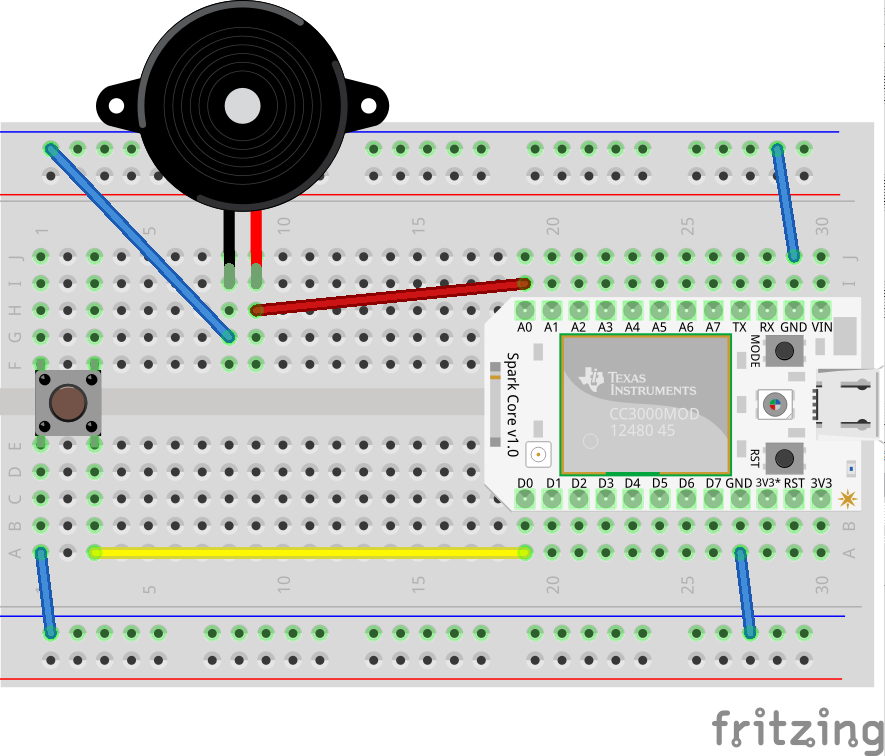
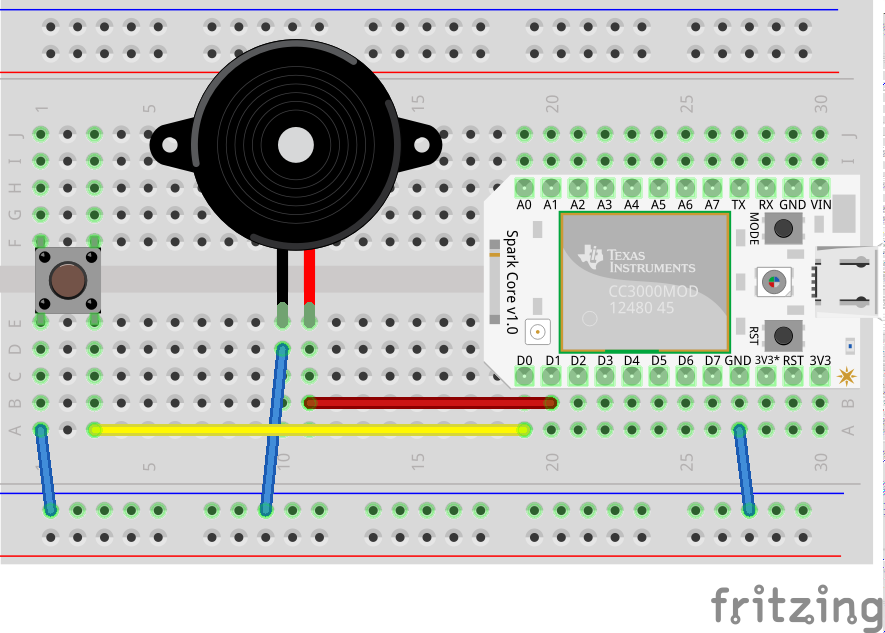
section 7 errors and errata

diff --git a/7-communicating-events/doorbell.md b/7-communicating-events/doorbell.md
@@ -19,7 +19,7 @@ You will need
 
 * [Jumper Wires]({{site.baseurl}}/1-a-simple-internet-appliance/jumpers)
 
-* [Piezo]({{site.baseurl}}/5-getting-input/piezo)
+* [Piezo]({{site.baseurl}}/6-controlling-outputs/piezo)
 
 * A [push button]({{site.baseurl}}/5-getting-input/buttons)
 
@@ -38,12 +38,10 @@ We set up the basics. The pin the speaker and the buttons are on and create a va
 We also need to create a set of variables to hold the melody when we go to play it back.
 
 ````
-int speakerPin = A0;
+int speakerPin = D1;
 
 int buttonPin = D0;
 int val;
-
-int noteDurations[] = {4,8,8,4,4,4,4,4 };
 
 int melody[] = { 440, 494, 131 };
 
@@ -96,7 +94,7 @@ void announceDoorbell()
 }
 ````
 
-We use <code>Particle.publish</code> to announce a new event called ‘<code>db2015/doorbell-pushed</code>’. This has a relatively unique name so that it is unlikely other devices will use it. 
+We use <code>Particle.publish</code> to announce a new event called ‘<code>db2017/doorbell-pushed</code>’. This has a relatively unique name so that it is unlikely other devices will use it. 
 
 ##Receiving an event 
 
@@ -111,7 +109,7 @@ void setup() {
   pinMode( buttonPin , INPUT_PULLUP); // sets pin as input
 
   // Subscribe to the doorbell event
-  Particle.subscribe(  "db2015/doorbell-pushed" , handleDoorbellPush );  
+  Particle.subscribe(  "db2017/doorbell-pushed" , handleDoorbellPush );  
 }
 ````
 
@@ -130,7 +128,7 @@ void handleDoorbellPush(const char *event, const char *data)
 void doDingDong()
 {
   // iterate over the notes of the melody:
-  for (int thisNote = 0; thisNote < 8; thisNote++) {
+  for (int thisNote = 0; thisNote < 3; thisNote++) {
 
     // to calculate the note duration, take one second
     // divided by the note type.
@@ -207,7 +205,7 @@ Now the event handler checks to see if we are playing. If the piezo is already i
 
 Ding dong. Compile and try it out! 
 
-{% include note.html type="tip" title="There’s lots of uses for a Piezo" text="An array is a collection of variables that are accessed with an index number.  Read more at: You can use a piezo as a sensor to detect knocks. Read more: [http://www.arduino.cc/en/Tutorial/KnockSensor](http://www.arduino.cc/en/Tutorial/KnockSensor)" %}
+{% include note.html type="tip" title="There’s lots of uses for a Piezo" text=" Piezos can be used for more than just making noise and creating melodies. It can be used to detect some inputs too. Read more at: You can use a piezo as a sensor to detect knocks. Read more: [http://www.arduino.cc/en/Tutorial/KnockSensor](http://www.arduino.cc/en/Tutorial/KnockSensor)" %}
 
 
 
